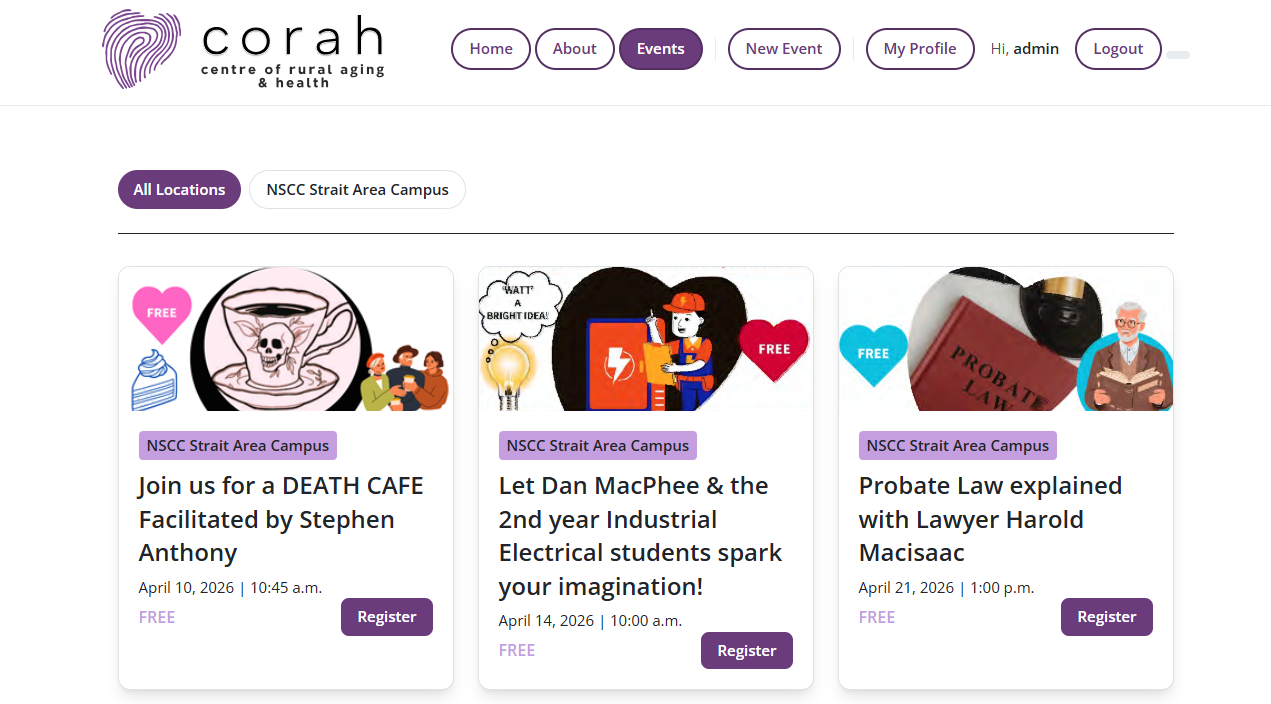
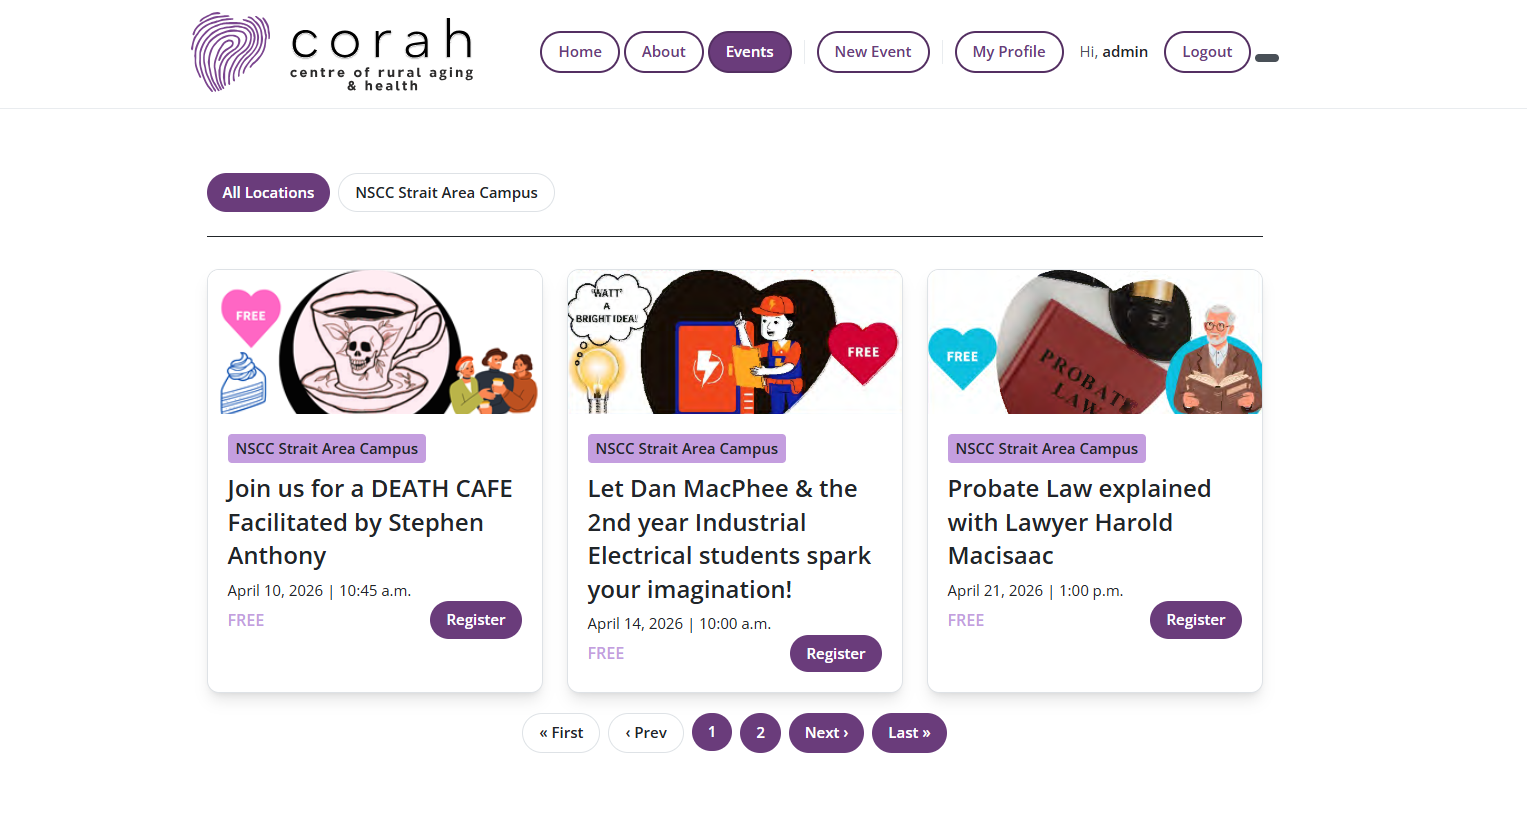
Updated images

diff --git a/src/panels/project.js b/src/panels/project.js
@@ -33,7 +33,7 @@ const projectPanel = {
         {
             name: " Corah Web-based Kiosk",
             stack: "Django, Tailwind, PostCSS, Javascript",
-            description: "A Django-based web app designed for the <strong>Centre of Rural and Aging Health</strong> at NSCC Strait Area Campus. It was built using a full-stack pipeline. Django, PostgreSQL, Tailwind CSS, and spun up utilizing Docker. This was a group project, I was mainly on the event side of things. I built the event cards, event list, event detail page, the event forms, as well as some of the semantic tokens for Tailwind CSS.",
+            description: "A Django-based web app designed for the Centre of Rural and Aging Health at NSCC Strait Area Campus. It was built using a full-stack pipeline. Django, PostgreSQL, Tailwind CSS, and spun up utilizing Docker. This was a group project, I was mainly on the event side of things. I built the event cards, event list, event detail page, the event forms, as well as some of the semantic tokens for Tailwind CSS.",
             link: "",
             GithubAPI: "",
             img: corahImg
